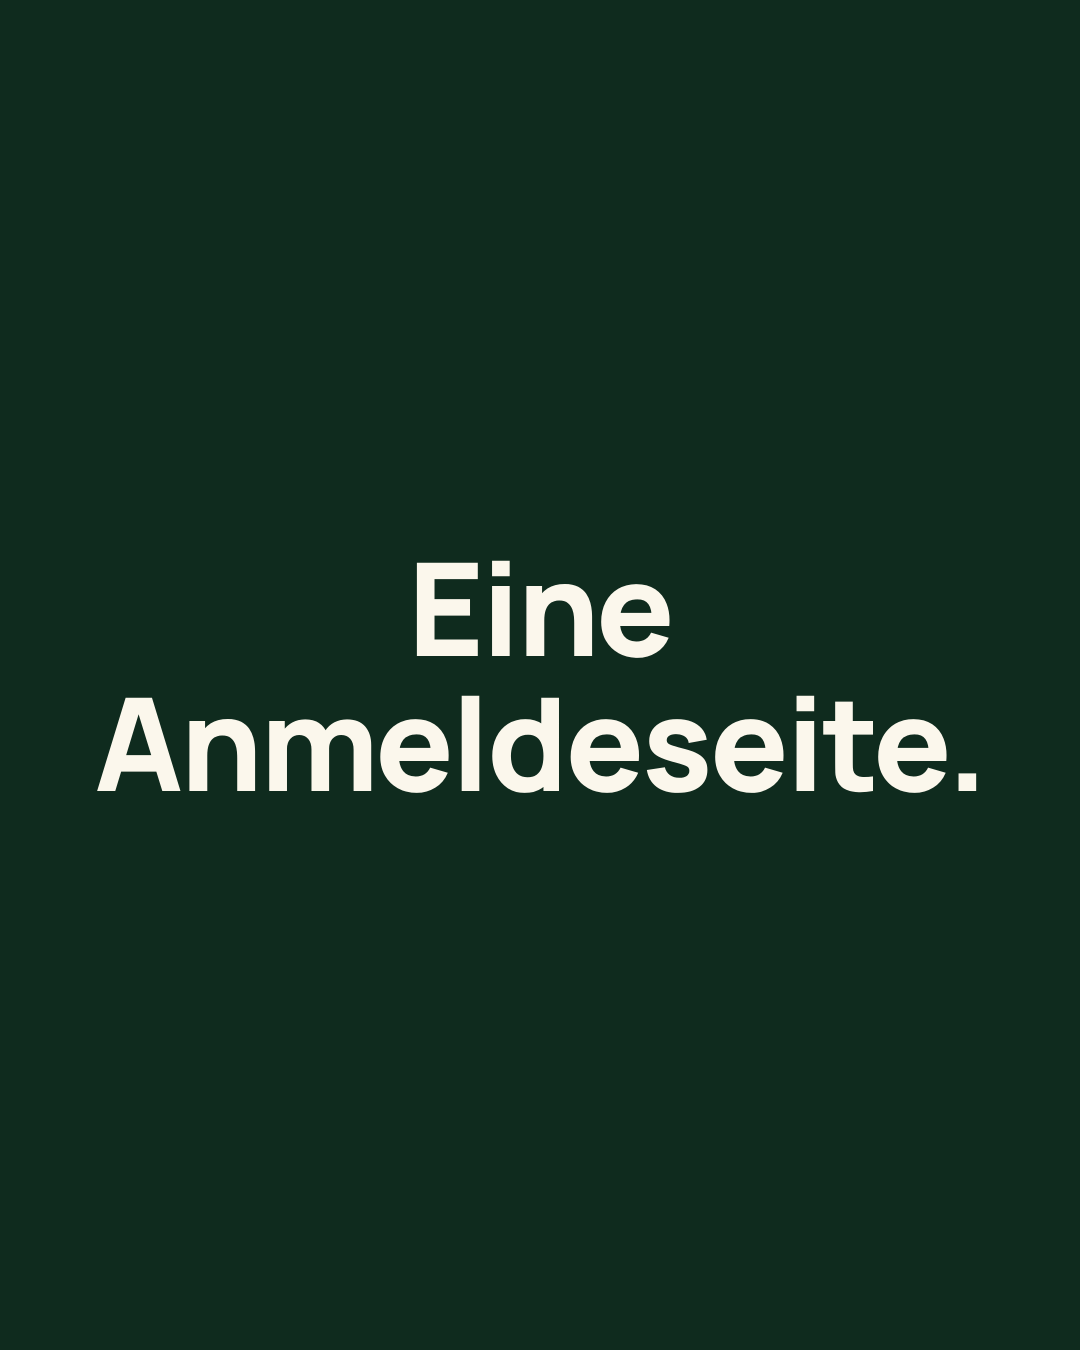
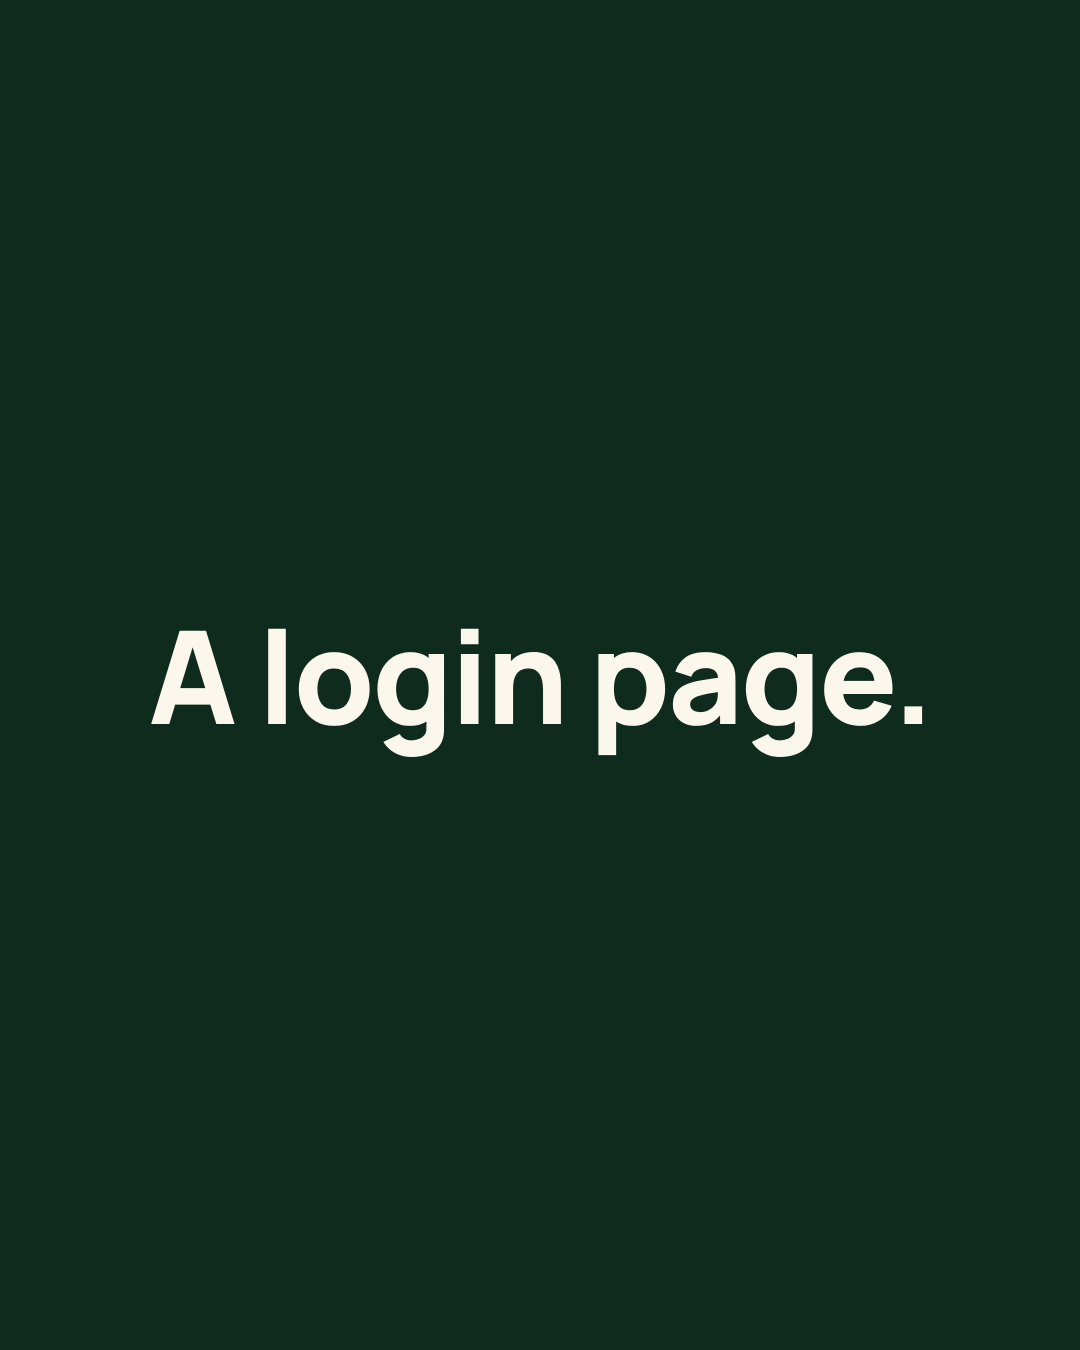
was-du-bauen-kannst: translate to English
"What would you build first?" replaces "Was würdest du zuerst bauen?". All
on-image copy and the caption now in English.

Changed region(s): [[0.0917, 0.4044, 0.9167, 0.5911]]

diff --git a/content/social/posts/was-du-bauen-kannst/caption.md b/content/social/posts/was-du-bauen-kannst/caption.md
@@ -1,7 +1,7 @@
-Keine Vorlagen. Keine Bausteine.
+No templates. No building blocks.
 
-Du beschreibst, was du brauchst — es entsteht
-genau das.
+You describe what you need — that’s exactly
+what gets built.
 
-Was würdest du zuerst bauen? Schreib es in
-die Kommentare.
+What would you build first? Tell us in the
+comments.
